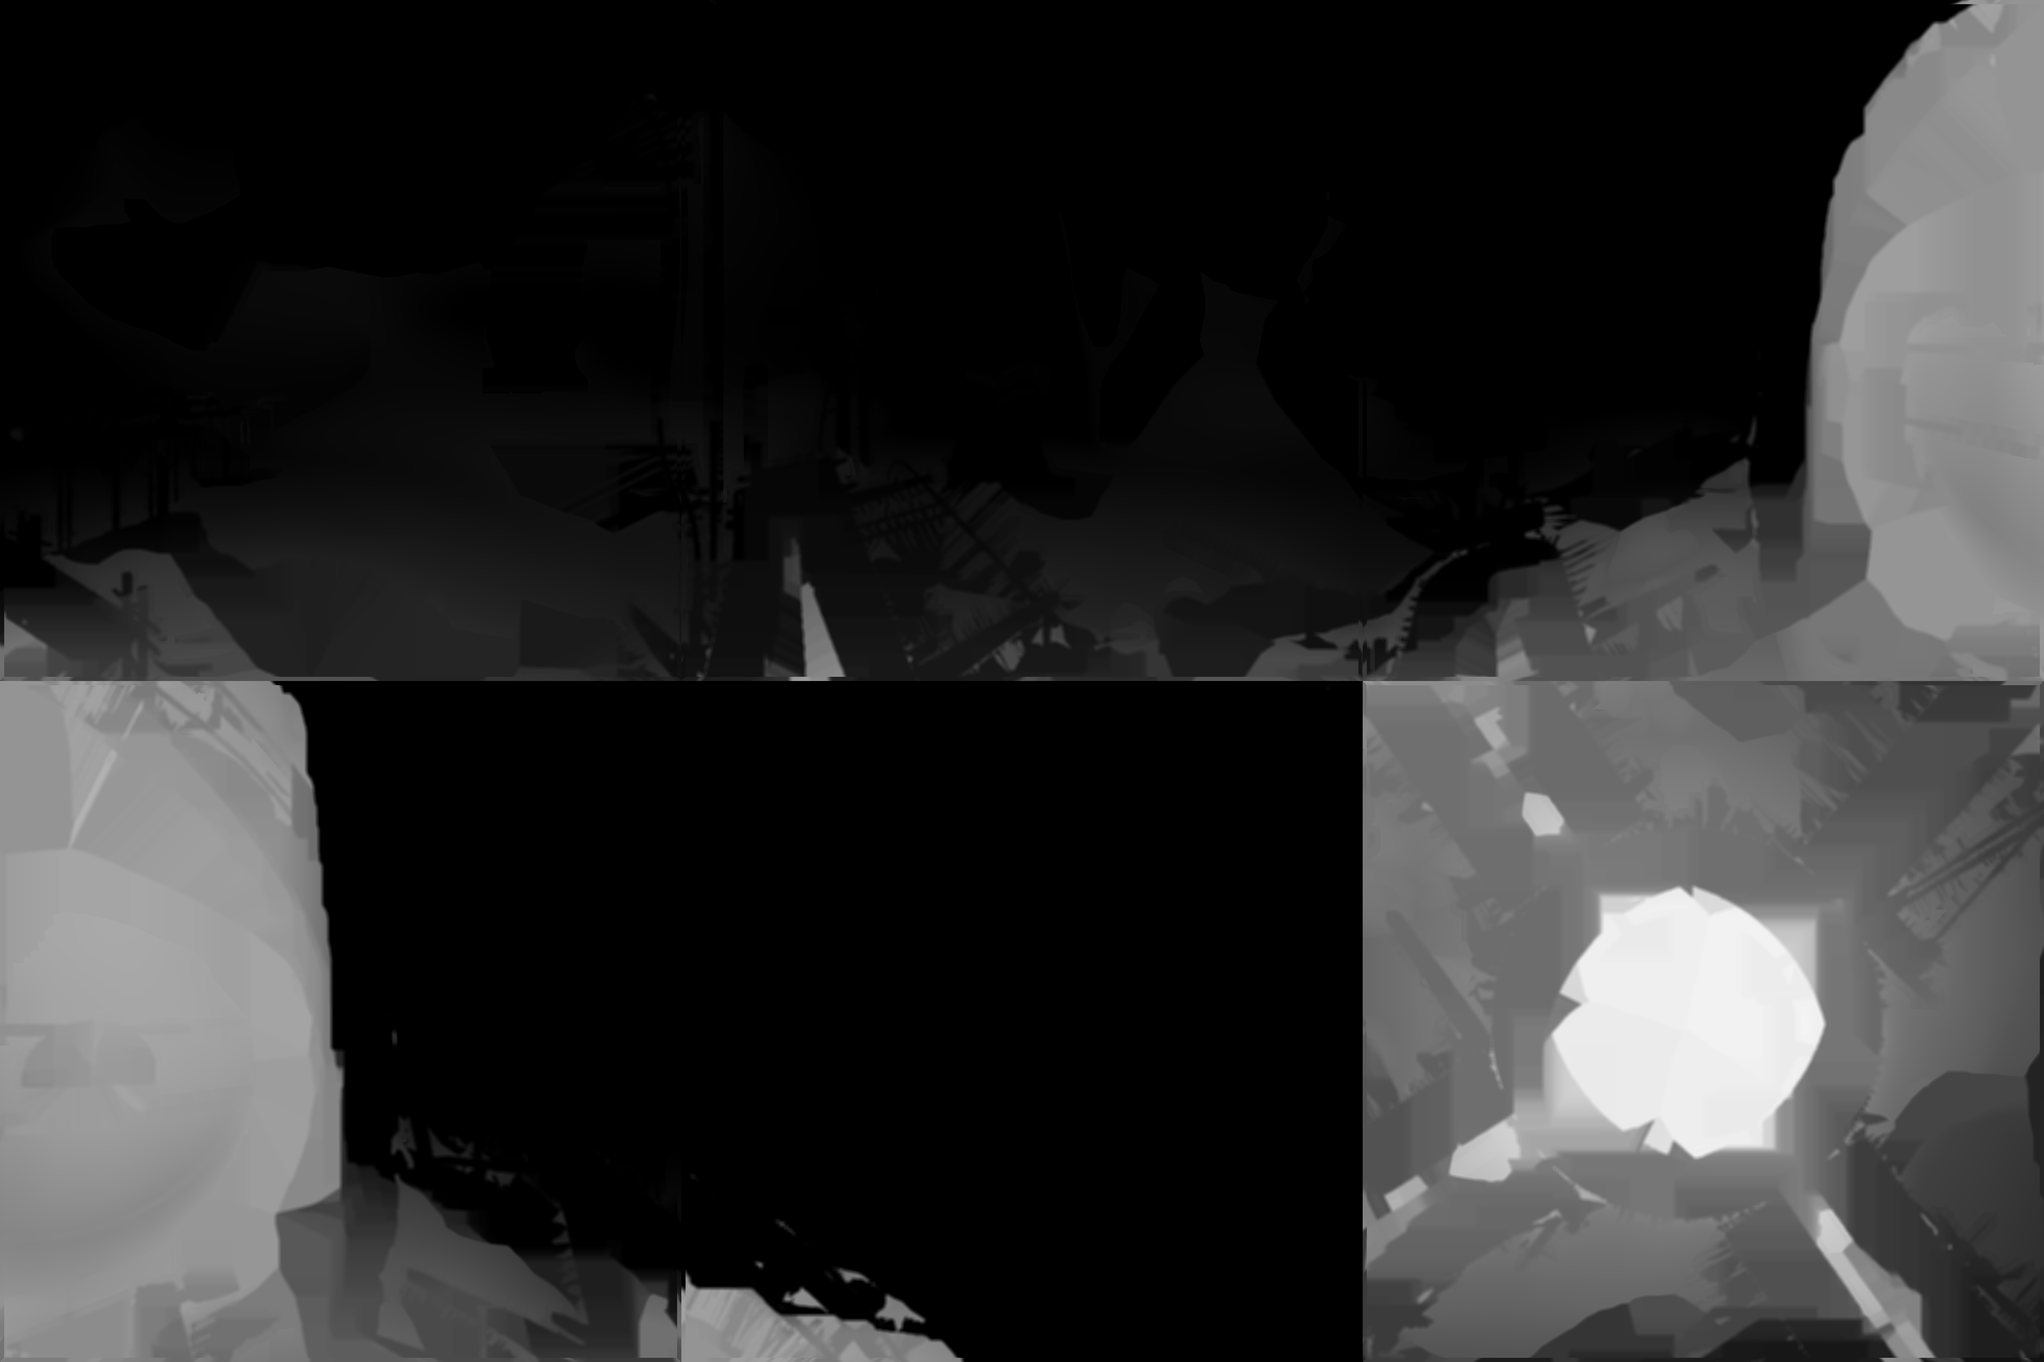
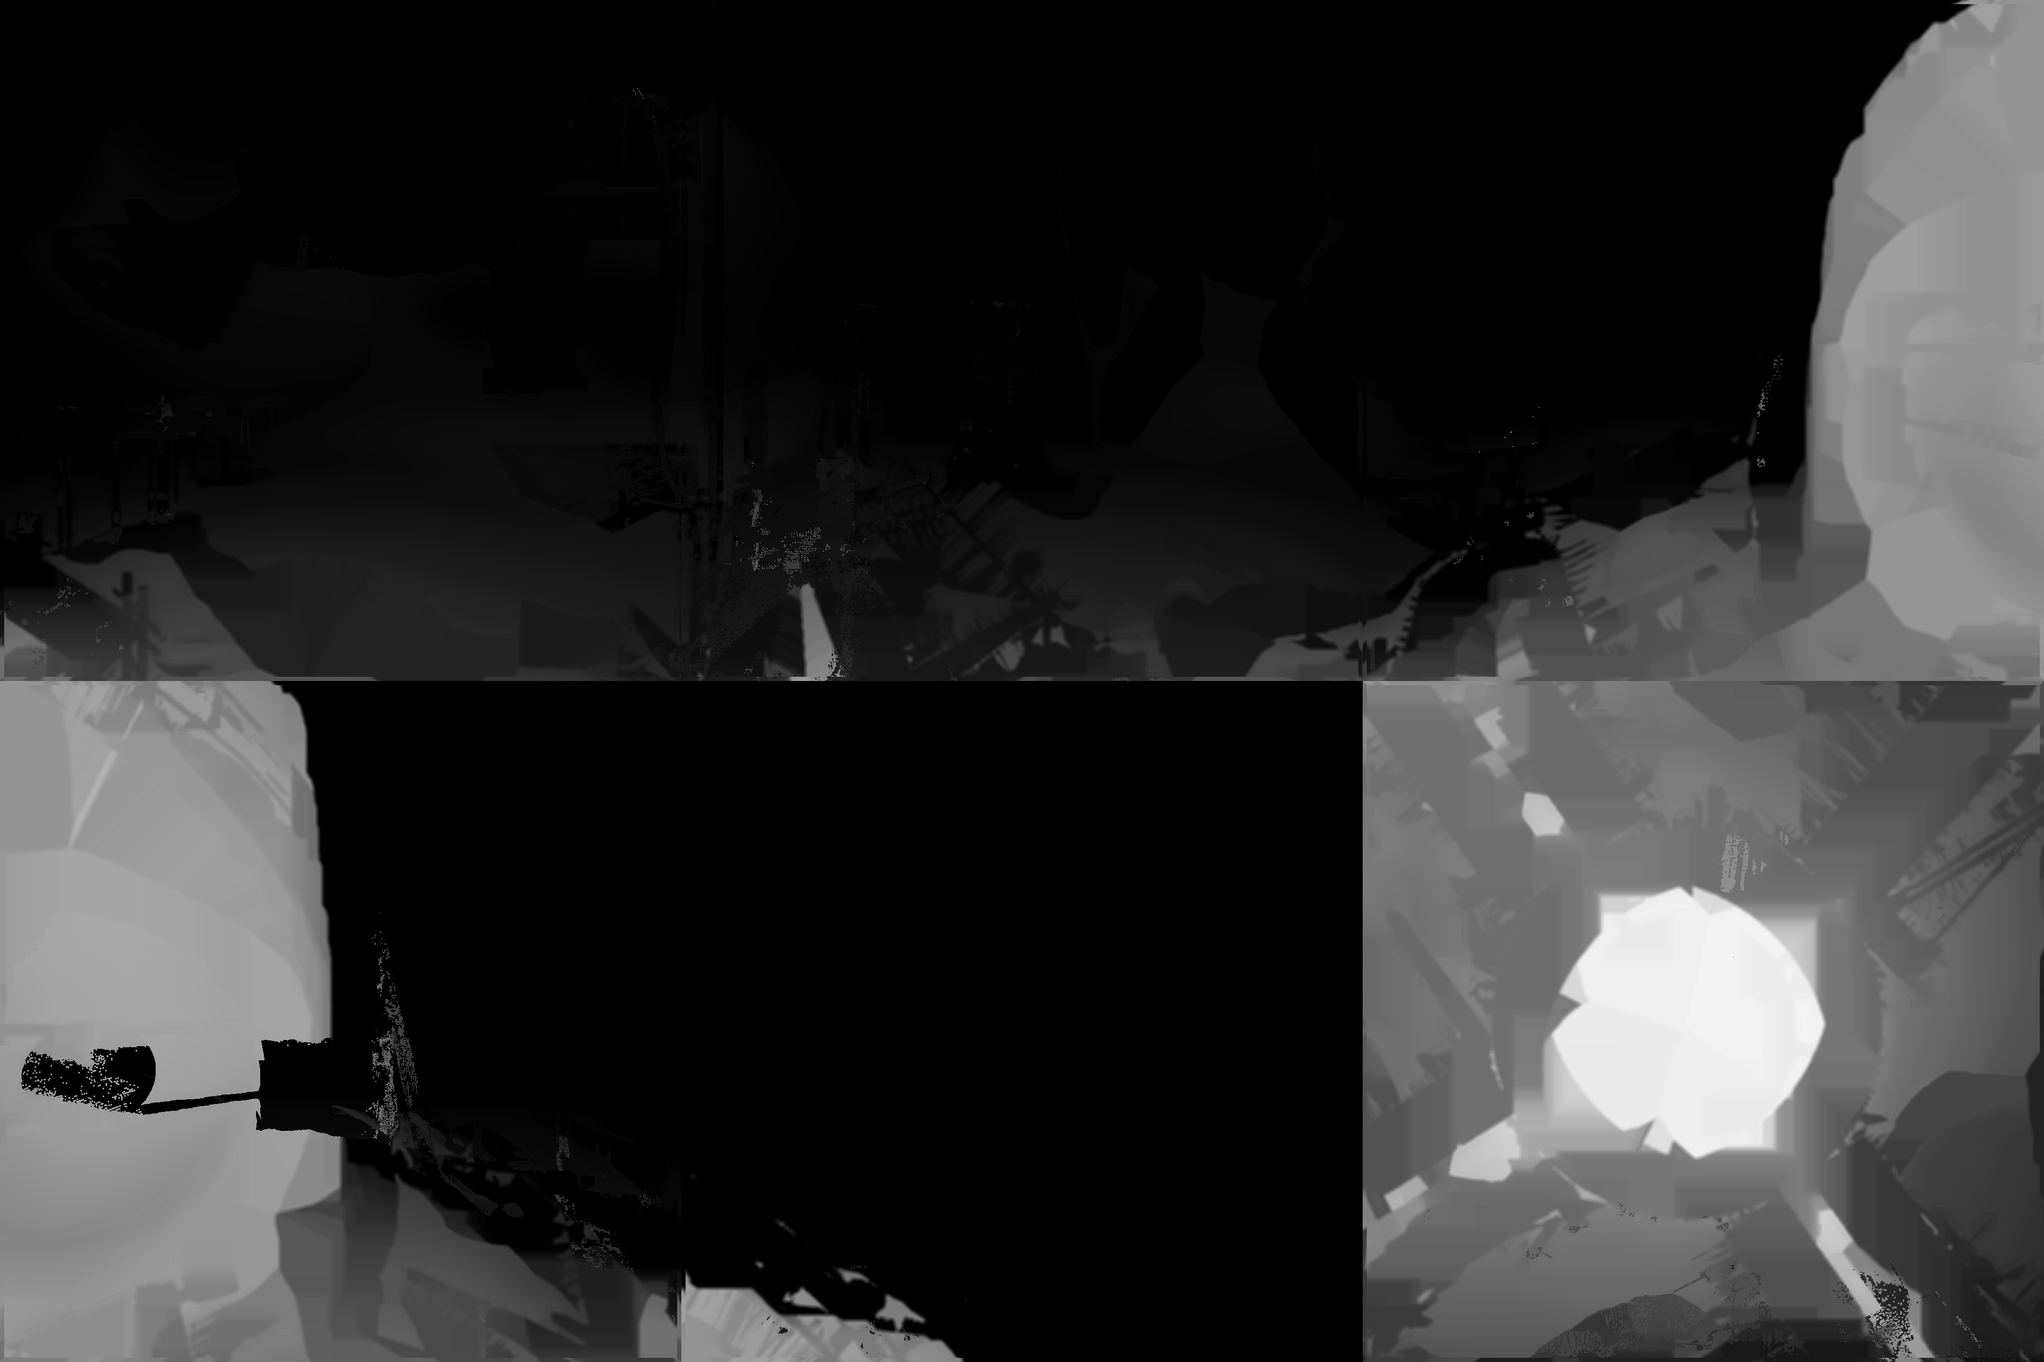
The backdrops of MASS 84 and ENSI 16 now take what the model's other nodes saw behind the near objects, and LaMa paints only what none of them saw. model_backdrop.py projects the twelve nearest nodes' dense depth maps into the site node and keeps, per pixel, the nearest point behind the foreground, 
Claude-Session: https://claude.ai/code/session_01PGTZsQJKeQ77ippduWGzGV

diff --git a/cube/myst3/colmap/model_backdrop.py b/cube/myst3/colmap/model_backdrop.py
@@ -1,0 +1,190 @@
+#!/usr/bin/env python3
+"""
+What is really behind a site node's near objects, from the other nodes of the
+model that saw it: colour and depth for build_layers.py's backdrop.
+
+    python model_backdrop.py DENSE SPARSE_TXT NODE SHARP_DIR NODE_DEPTH_JSON OUT
+        [--names N1 ... N6] [--depth-suffix _sharp-depth.png] [--neighbours 12]
+        [--behind 1.1] [--splat 2]
+
+DENSE is a run_dense.ps1 (or node_stereo.py) workspace: images/f<k>/<name>.jpg
+and stereo/depth_maps/f<k>/<name>.jpg.geometric.bin. SPARSE_TXT is the text
+model it was made from (images.txt: every face's pose). NODE is the node as in
+the file names (4084, 0016). SHARP_DIR holds the site node's six depth maps
+(sharpen_depth.py's, names --names, d = (r_far/r - 1)/19) and NODE_DEPTH_JSON
+is node_depth.py's report, whose r_far puts them in the model's units.
+
+Why. build_layers.py's backdrop is what is behind the foreground's near
+objects. Painted by LaMa from the node's own picture it is invented, and two
+layers had to be chosen by rules (which far side counts as behind) that suit
+one scene and not the next. The nodes around saw behind those objects. Every
+pixel with a geometric depth in the faces of the --neighbours nearest nodes
+becomes a point of that colour in the model; projected into the site node's
+faces, each pixel keeps the nearest point lying behind the foreground (farther
+than --behind times the foreground's distance, and than the model's own depth
+for this node where it has one), splatted over --splat pixels. A point counts
+only if its node saw it within --max-angle (30) degrees of our own line of
+sight, and not when it has the foreground pixel's colour within --same (1.6)
+times its distance: then it is the foreground itself.
+Where no node saw anything behind, LaMa still paints.
+
+Writes, per face, OUT/<name>_model-bg.png (RGBA: alpha 255 where a point
+landed) and OUT/<name>_model-bg-q.npy (float32 r_far / r, 0 where none), at the
+size of the depth maps in SHARP_DIR. Needs numpy, Pillow; depth_fill.py beside it.
+"""
+import argparse
+import json
+import os
+
+import numpy as np
+from PIL import Image
+
+from depth_fill import read_colmap_array
+
+
+def qvec2rot(q):
+    w, x, y, z = q
+    return np.array([[1 - 2 * (y * y + z * z), 2 * (x * y - w * z), 2 * (x * z + w * y)],
+                     [2 * (x * y + w * z), 1 - 2 * (x * x + z * z), 2 * (y * z - w * x)],
+                     [2 * (x * z - w * y), 2 * (y * z + w * x), 1 - 2 * (x * x + y * y)]])
+
+
+def read_poses(txt):
+    """name -> (R, t) for every image of a COLMAP text model."""
+    poses = {}
+    with open(os.path.join(txt, 'images.txt')) as f:
+        head = True
+        for line in f:
+            if line.startswith('#'):
+                continue
+            if head:
+                p = line.split()
+                poses[p[9]] = (qvec2rot(np.array(p[1:5], float)), np.array(p[5:8], float))
+            head = not head
+    return poses
+
+
+def main():
+    ap = argparse.ArgumentParser(description=__doc__, formatter_class=argparse.RawDescriptionHelpFormatter)
+    ap.add_argument('dense'); ap.add_argument('sparse_txt'); ap.add_argument('node')
+    ap.add_argument('sharp'); ap.add_argument('node_json'); ap.add_argument('out')
+    ap.add_argument('--names', nargs=6, required=True)
+    ap.add_argument('--depth-suffix', default='_sharp-depth.png')
+    ap.add_argument('--neighbours', type=int, default=12)
+    ap.add_argument('--behind', type=float, default=1.15)
+    ap.add_argument('--splat', type=int, default=2)
+    ap.add_argument('--same', type=float, default=1.6)
+    ap.add_argument('--max-angle', type=float, default=30.0)
+    a = ap.parse_args()
+    os.makedirs(a.out, exist_ok=True)
+    r_far = json.load(open(a.node_json))['r_far']
+    poses = read_poses(a.sparse_txt)
+    own = {k: next(m for m in poses if m.startswith(f'f{k}/') and m.endswith(f'-{a.node}.jpg')) for k in range(1, 7)}
+    C = -poses[own[1]][0].T @ poses[own[1]][1]
+    # the nearest other nodes, by the centre of their face 1
+    centres = {}
+    for name, (R, t) in poses.items():
+        if name.startswith('f1/') and name != own[1]:
+            centres[name[3:]] = -R.T @ t
+    near = sorted(centres, key=lambda n: np.linalg.norm(centres[n] - C))[:a.neighbours]
+    print(f'node {a.node} at {np.round(C, 2)}; neighbours: ' +
+          ', '.join(f'{n} ({np.linalg.norm(centres[n] - C):.2f})' for n in near))
+    # the site node's foreground, in r_far / r
+    fg, N = {}, None
+    for k, name in enumerate(a.names, 1):
+        d = np.asarray(Image.open(os.path.join(a.sharp, name + a.depth_suffix)).convert('L')).astype(np.float32) / 255
+        fg[k] = 1 + 19 * d
+        N = d.shape[0]
+    f = N / 2.0
+    # What counts as the foreground: the nearer of the site depth and the
+    # model's own depth for this node (its geometric depth maps, nearest within
+    # 5 px), so where the two disagree (the site depth is a fit, 10-15% off
+    # the model on some faces) the same surface is not taken for what is behind.
+    import cv2
+    ref, fgc = {}, {}
+    for k in range(1, 7):
+        r = fg[k].copy()
+        dm = os.path.join(a.dense, 'stereo', 'depth_maps', own[k] + '.geometric.bin')
+        if os.path.exists(dm):
+            z = read_colmap_array(dm)
+            h = z.shape[0]
+            u = (np.arange(h) + 0.5) / h * 2 - 1
+            xx, yy = np.meshgrid(u, u)
+            qo = np.where(z > 0, r_far / np.maximum(z * np.sqrt(1 + xx ** 2 + yy ** 2), 1e-9), 0).astype(np.float32)
+            qo = cv2.resize(cv2.dilate(qo, np.ones((5, 5), np.uint8)), (N, N), interpolation=cv2.INTER_NEAREST)
+            r = np.maximum(r, qo)
+        ref[k] = r
+        img = Image.open(os.path.join(a.dense, 'images', own[k])).convert('RGB').resize((N, N), Image.BILINEAR)
+        fgc[k] = np.asarray(img).astype(np.int16)
+    best_q = {k: np.zeros((N, N), np.float32) for k in fg}
+    best_c = {k: np.zeros((N, N, 3), np.uint8) for k in fg}
+    used = 0
+    for n in near:
+        for k2 in range(1, 7):
+            name = f'f{k2}/{n}'
+            dm = os.path.join(a.dense, 'stereo', 'depth_maps', f'f{k2}', n + '.geometric.bin')
+            if name not in poses or not os.path.exists(dm):
+                continue
+            z = read_colmap_array(dm)
+            img = np.asarray(Image.open(os.path.join(a.dense, 'images', f'f{k2}', n)).convert('RGB'))
+            H, W = z.shape
+            v, u = np.nonzero(z > 0)
+            if not len(v):
+                continue
+            used += 1
+            zz = z[v, u]
+            fx = W / 2.0                                   # the faces are 90-degree pinholes
+            Xc = np.stack([(u + 0.5 - W / 2) / fx * zz, (v + 0.5 - H / 2) / fx * zz, zz], 1)
+            R, t = poses[name]
+            X = (Xc - t) @ R                               # R^T (Xc - t)
+            col = img[v, u]
+            # Only what that node saw from about our direction: moving the eye
+            # a little uncovers what lies past an object's edge, never its
+            # back, which the nodes beyond it see from the other side (the
+            # stone tower's far side came back inside its outline).
+            Cn = -R.T @ t
+            d1 = X - C; d2 = X - Cn
+            cosang = (d1 * d2).sum(1) / (np.linalg.norm(d1, axis=1) * np.linalg.norm(d2, axis=1) + 1e-12)
+            keep = cosang > np.cos(np.radians(a.max_angle))
+            X, col = X[keep], col[keep]
+            if not len(X):
+                continue
+            for k in range(1, 7):
+                Rk, tk = poses[own[k]]
+                Y = X @ Rk.T + tk
+                ok = Y[:, 2] > 1e-6
+                x = Y[:, 0] / np.where(ok, Y[:, 2], 1); y = Y[:, 1] / np.where(ok, Y[:, 2], 1)
+                ok &= (np.abs(x) < 1) & (np.abs(y) < 1)
+                if not ok.any():
+                    continue
+                px = np.clip(((x[ok] + 1) * f).astype(int), 0, N - 1)
+                py = np.clip(((y[ok] + 1) * f).astype(int), 0, N - 1)
+                q = (r_far / np.linalg.norm(Y[ok], axis=1)).astype(np.float32)
+                c = col[ok]
+                behind = q * a.behind < ref[k][py, px]     # farther than --behind times the foreground
+                # and not the foreground itself, seen a little farther: the same
+                # colour (the renders' lighting does not change with the node)
+                # within --same times the foreground's distance
+                same = (np.abs(c.astype(np.int16) - fgc[k][py, px]).sum(1) < 36) & (q * a.same > ref[k][py, px])
+                behind &= ~same
+                px, py, q, c = px[behind], py[behind], q[behind], c[behind]
+                # nearest first wins: write farthest first, then nearer over it
+                order = np.argsort(q)
+                px, py, q, c = px[order], py[order], q[order], c[order]
+                for dy in range(a.splat):
+                    for dx in range(a.splat):
+                        yy = np.clip(py + dy, 0, N - 1); xx = np.clip(px + dx, 0, N - 1)
+                        keep = q > best_q[k][yy, xx]
+                        best_q[k][yy[keep], xx[keep]] = q[keep]
+                        best_c[k][yy[keep], xx[keep]] = c[keep]
+    print(f'{used} neighbouring faces with depth projected')
+    for k, name in enumerate(a.names, 1):
+        has = best_q[k] > 0
+        rgba = np.dstack([best_c[k], np.where(has, 255, 0).astype(np.uint8)])
+        Image.fromarray(rgba).save(os.path.join(a.out, name + '_model-bg.png'))
+        np.save(os.path.join(a.out, name + '_model-bg-q.npy'), best_q[k])
+        print(f'{name}: {has.mean() * 100:.1f}% of the face has something behind the foreground from the model')
+
+
+if __name__ == '__main__':
+    main()

diff --git a/cube/amateria/layers/build_layers.py b/cube/amateria/layers/build_layers.py
@@ -254,6 +254,7 @@ def main():
     ap.add_argument('--fringe', type=int, default=6, help='px the painted region reaches past the jump into the far side')
     ap.add_argument('--reach', type=int, default=48, help='px within which the farthest far side counts as behind '
                     '(0: the nearest step\'s far side; MAWW 101 is built so)')
+    ap.add_argument('--model-bg', help="model_backdrop.py's folder: what other nodes saw behind the near objects")
     ap.add_argument('--belong', type=float, default=0.5,
                     help='a middle layer goes with the near object when its gap to it is under this times its gap to the farthest')
     ap.add_argument('--nearest-faces', type=int, nargs='*', default=[],
@@ -281,7 +282,16 @@ def main():
     lama = Lama(a.lama)
     bg = C.copy()                     # finished backdrops replace these face by face
     done = np.zeros(6, bool)
-    masks, hide, fqs, fgq, holes = {}, {}, {}, {}, {}
+    masks, hide, fqs, fgq, holes, wholes = {}, {}, {}, {}, {}, {}
+    # What the model's other nodes saw behind the near objects (model_backdrop.py).
+    MQ = np.zeros((6, N, N), np.float32); MC = np.zeros((6, N, N, 3), np.float32)
+    used = np.zeros((6, N, N), bool)
+    if a.model_bg:
+        for k, n in faces.items():
+            qf = os.path.join(a.model_bg, n + '_model-bg-q.npy')
+            if os.path.exists(qf):
+                MQ[k - 1] = np.load(qf)
+                MC[k - 1] = np.asarray(Image.open(os.path.join(a.model_bg, n + '_model-bg.png')).convert('RGB'))
     # The removed region and far-side depth of every face first, each on the
     # face padded with its neighbours so a jump at a seam is seen whole.
     for k in range(1, 7):
@@ -289,7 +299,7 @@ def main():
         region, whole, fq = removed_region(sample(Q, look), a.jump, sc(a.band),
                                              0 if k in a.nearest_faces else sc(a.reach), a.belong)
         grow = lambda m: cv2.dilate(m.astype(np.uint8), np.ones((2 * sc(a.fringe) + 1,) * 2, np.uint8)) > 0
-        masks[k], hide[k], fqs[k] = grow(region), grow(whole), fq
+        masks[k], hide[k], fqs[k], wholes[k] = grow(region), grow(whole), fq, whole
         fgq[k], holes[k] = hole_band(sample(Q, look), whole, a.jump, sc(a.hole), sc(a.hole_step))
     inner = (slice(PAD_, PAD_ + N), slice(PAD_, PAD_ + N))
     M = np.stack([masks[k][inner] for k in range(1, 7)])
@@ -303,7 +313,20 @@ def main():
         # is finished backdrop: known, not painted.
         m = hide[k] & ~done[look[0] - 1]
         m[inner] = hide[k][inner]
-        if m[inner].any():
+        # Inside a near object, what another node saw behind it is known, not
+        # painted; LaMa fills only what no node saw. (On the far side of an
+        # edge the backdrop is that surface itself, so the model is not used.)
+        # Only where the model is dense: scattered points (a dotted outline
+        # of ENSI 16's pod) given to LaMa as known were clues it joined up
+        # into a ghost pod; there it paints instead.
+        seen = sample(MQ, look) > 0
+        dense = cv2.blur(seen.astype(np.float32), (2 * sc(4) + 1,) * 2) > 0.6
+        seen = cv2.erode((seen & dense).astype(np.uint8), np.ones((3, 3), np.uint8)) > 0
+        seen &= wholes[k]
+        rgb[seen] = sample(MC, look)[seen]
+        used[k - 1] = seen[inner]
+        m &= ~seen
+        if (m[inner] | seen[inner]).any():
             painted = lama(rgb, m)[inner]
             keep = masks[k][inner]
             bg[k - 1][keep] = painted[keep]
@@ -313,7 +336,9 @@ def main():
     for k, n in faces.items():
         d = dep[k].astype(np.float32)
         fq = cv2.blur(fqs[k], (9, 9))[inner]
-        bgd = np.where(M[k - 1], (fq - 1) / (RATIO - 1) * 255, d)
+        bq = np.where(used[k - 1], MQ[k - 1], fq)
+        bq = np.where(wholes[k][inner], bq, fq)
+        bgd = np.where(M[k - 1], (bq - 1) / (RATIO - 1) * 255, d)
         bgd = np.minimum(bgd, d)          # the backdrop never in front of the foreground
         fd = (fgq[k][inner] - 1) / (RATIO - 1) * 255
         green = np.where(holes[k][inner], 0, 255)

diff --git a/cube/myst3/README.md b/cube/myst3/README.md
@@ -126,6 +126,7 @@ checks the geometry; nothing has been reconstructed yet.
 | `colmap/video_frames.py` | A movie's frames as extra views of a laid-out room or age: frames, brightened copies, sequential and key-frame x face pairs. Needs opencv-python and ffmpeg. |
 | `colmap/register_video.ps1` | Measures a movie's camera from the movie alone, then continues a finished model with the frames (the mapper with the model's frames held). |
 | `colmap/sharpen_depth.py` | A site node's measured depth redrawn at 1280 px from the 4K faces: Depth Anything V2 Large at an input of 1036 px, fitted to the measured depth away from its outlines, seams closed; outlines that follow the picture, for Amateria's *Layered* version. Needs torch, transformers, opencv-python. |
+| `colmap/model_backdrop.py` | What is really behind a site node's near objects: the nearest nodes' dense depth maps projected into its faces, each pixel keeping the nearest point behind the foreground, for `build_layers.py --model-bg`. Needs numpy, Pillow, opencv-python. |
 | `colmap/filter_sky.py` | Takes sky out of a database and model whose node faces were matched before there were masks: drops verified matches with an end on `sky_masks.py`'s black, and model points seen mostly there. Needs numpy, Pillow. |
 | `colmap/sky_masks.py` | Feature masks that leave out sky, sea and water (SegFormer, ADE20K), for movie frames: matches on the sky fix which way a picture looks but not where. Needs torch, transformers. |
 | `colmap/node_stereo.py` | `patch_match_stereo` for one node's six faces and the images they share most points with, instead of every image. |

diff --git a/cube/README.md b/cube/README.md
@@ -377,7 +377,20 @@ gaps showed flat grey. The choice is per face: ENSI 16 and MAWW 101 are
 built with `--reach 48`, MAWW 101 with `--nearest-faces 2` so its floor keeps
 the nearest step (cleaner spire and machinery on the other faces); MASS 84
 keeps the nearest step throughout (`--reach 0`; reach made no visible
-difference). Moving the measured
+difference).
+
+For nodes the 3D model places (MASS 84, ENSI 16) the backdrop is no longer
+only LaMa's invention: `myst3/colmap/model_backdrop.py` projects the dense
+depth maps of the twelve nearest nodes' faces into the site node, and each
+pixel keeps the nearest point lying behind the foreground (behind the nearer
+of the site depth and the model's own depth for the node, seen by its node
+within 30° of our line of sight, and not of the foreground's colour within
+four times its distance). Inside the near objects, wherever those points are
+dense, `build_layers.py --model-bg` puts that colour and depth in the backdrop
+and LaMa paints only the rest; scattered points it leaves to LaMa, since given
+as known they were clues LaMa joined up into a ghost of the object. The
+neighbours supply 2–9% of MASS 84's side faces and 4–16% of ENSI 16's: sea
+behind the stone tower, cliff and sea behind the walkways. Moving the measured
 depth's edges onto the picture's by colour was tried first (pixels within
 14–18 px of a jump relabelled near or far) and dropped: in these dark faces
 the labels came out speckled, each speckle tore, and the rings and arcs broke
